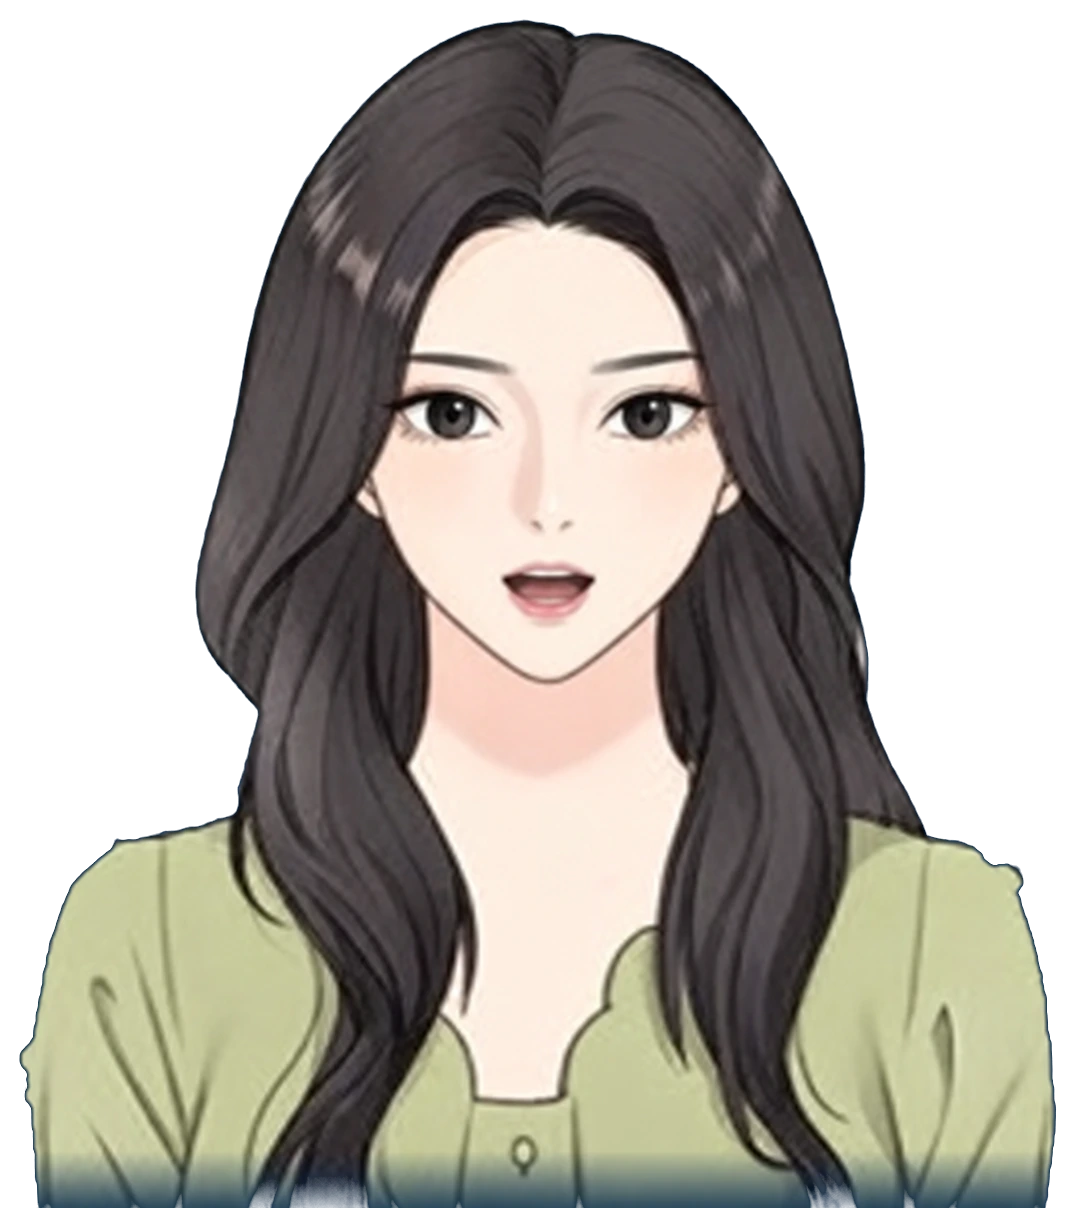
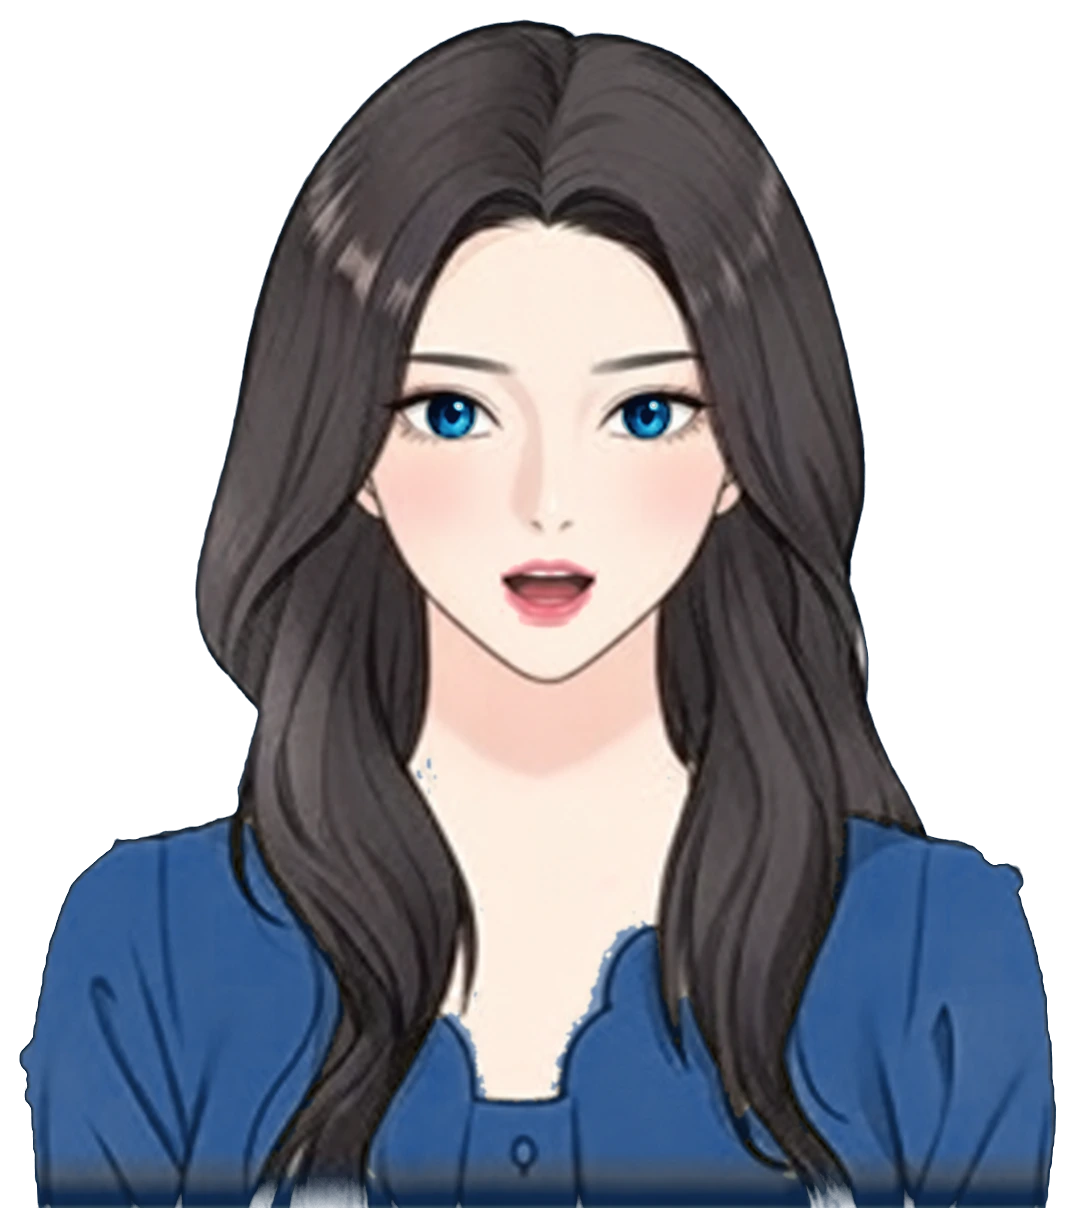
Theme-blue outfit, luminous eyes, richer lips and blush

diff --git a/index.html b/index.html
@@ -14,7 +14,7 @@
   <link rel="preconnect" href="https://fonts.gstatic.com" crossorigin>
   <link href="https://fonts.googleapis.com/css2?family=DM+Sans:wght@400;500;700&family=Fraunces:opsz,wght@9..144,600;9..144,700&display=swap" rel="stylesheet">
   <link rel="preload" as="image" href="assets/host-speaking.webp" type="image/webp">
-  <link rel="stylesheet" href="style.css?v=16">
+  <link rel="stylesheet" href="style.css?v=17">
 </head>
 <body>
   <a class="skip-link" href="#home">Skip to content</a>
@@ -69,6 +69,6 @@
     <section class="cta" id="join"><p class="eyebrow">Join the movement</p><h2>Talk when you’re ready.<br>Be heard when it matters.</h2><a class="button button-light" href="mailto:support@listenerz.com?subject=Hello%20ListenerZ&amp;body=Hi%20ListenerZ%20team%2C%0A%0A">Get in touch</a></section>
   </main>
   <footer id="contact"><div><a class="brand" href="#home"><img src="assets/listenerz-logo.svg" alt=""><span>The ListenerZ</span></a><p>Private conversation. Human connection.</p></div><div><h3>Contact</h3><a href="mailto:support@listenerz.com">support@listenerz.com</a><a href="tel:18005478369">1-800-LISTENZ</a></div><small>© 2026 The ListenerZ. All rights reserved.</small></footer>
-  <script src="script.js?v=16"></script>
+  <script src="script.js?v=17"></script>
 </body>
 </html>
